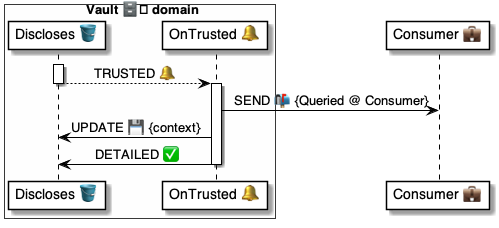
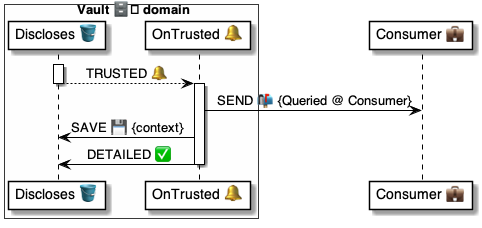
.

diff --git a/4 ⚙ Solution/41 🎭 Domain Roles/Vaults 🗄/🗄🪣 Vault tables/Discloses 💼 table/🪣🔔 2 Trusted/🗄 OnTrusted 📃 handler.md b/4 ⚙ Solution/41 🎭 Domain Roles/Vaults 🗄/🗄🪣 Vault tables/Discloses 💼 table/🪣🔔 2 Trusted/🗄 OnTrusted 📃 handler.md
@@ -1,4 +1,4 @@
-# 🗄 OnDiscloseTrusted 📃 handler
+# 🗄 Disclose.OnTrusted 📃 handler
 
 > About
 * Part of the [Vault 🗄 domain](<../../../🗄 Vault/🗄🎭 Vault role.md>) role
@@ -14,33 +14,27 @@
 ## Script
 
 ```yaml
-📃 OnDiscloseTrusted:
+📃 OnTrusted:
 
 # Assert the Disclose
 - ASSERT|$Disclose:
-    AllOf: Chat, Consumer, Language, Bind.Schema, Bind.User
-    Texts: Language, Consumer, Bind.Schema, Bind.User
-    UUIDs: Chat
+    AllOf: Consumer, Query, Bind.Schema
+    Texts: Consumer, Bind.Schema
+    UUIDs: Query
 
-# Execute the handler
-- CALL|OnDisclose >> $data:
-    
-    # Share data
-    Disclose: $Disclose.ID
-    Consumer: $Disclose.Consumer
-    Language: $Disclose.Language
-
-    # Bind data
-    Bind: $Disclose.Bind
-    Schema: $Disclose.Bind.Schema
-    Reference: $Disclose.Bind.Reference
-    Internals: $Disclose.Bind.Internals
+# Get the query context
+- SEND >> $context:
+    Header:
+        To: $Disclose.Consumer
+        Subject: Queried@Consumer
+    Body:
+        Query: $Disclose.Query
+        Schema: $Disclose.Bind.Schema
 
 # Save the data for collection
 - SAVE|$Disclose:
-    .State: READY
-    Data: $data
-    Expires: .Now.Add(5 minutes)
+    .State: DETAILED
+    Context: $context
 ```
 
 |Uses||
@@ -48,4 +42,4 @@
 | [Commands ⌘](<../../../../../35 💬 Chats/Scripts 📃/Command ⌘.md>) | [`ASSERT`](<../../../../../37 Scripts 📃/📃 Commands ⌘/⌘ for holders 🧠/ASSERT 🚦/🚦 ASSERT ⌘ cmd.md>) [`ASYNC`](<../../../../../37 Scripts 📃/📃 Commands ⌘/⌘ for async/ASYNC 👷🏼/👷🏼 ASYNC ⌘ cmd.md>) [`SAVE`](<../../../../../37 Scripts 📃/📃 Commands ⌘/⌘ for datasets 🪣/SAVE 💾/💾 SAVE ⌘ cmd.md>) [`WAIT`](<../../../../../37 Scripts 📃/📃 Commands ⌘/⌘ for async/WAIT 🧘/🧘 WAIT ⌘ cmd.md>)
 | [Datasets 🪣](<../../../../../30 🧩 Data/Datasets 🪣/🪣 Dataset.md>) | [`Vault.Discloses`](<../🪣 Discloses/🗄 Vault.Discloses 🪣 table.md>)
 | [{Functions} 🐍](<../../../../../35 💬 Chats/Scripts 📃/Function 🐍.md>) | [`.Now`](<../../../../../37 Scripts 📃/📃 Functions 🐍/🐍 System 🔩 functions/Now ⓕ.md>) [`.Add`](<../../../../../37 Scripts 📃/📃 Functions 🐍/🐍 System 🔩 functions/Add ⓕ.md>)
-|
+| [Messages 📨](<../../../../../30 🧩 Data/Messages 📨/📨 Message/📨 Message.md>) | [`Queried@Consumer` 🚀 call](<../../../../Consumers 💼/💼📨 Consumer msgs/Queried 🗄🚀💼/💼 Queried 🚀 call.md>)
